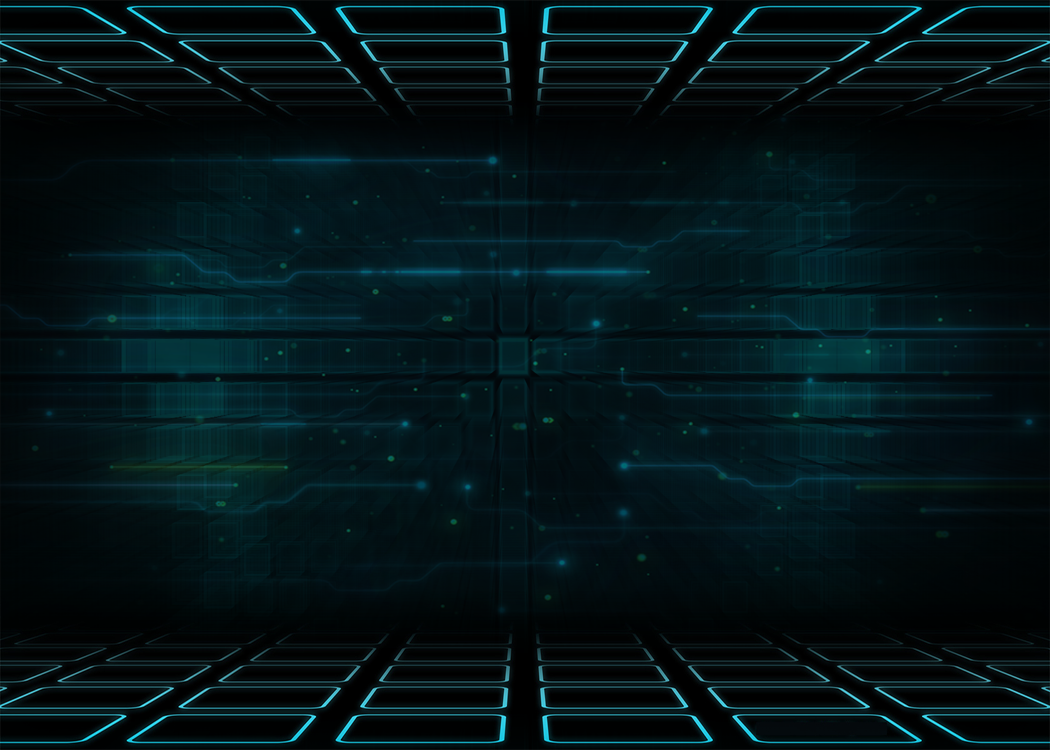
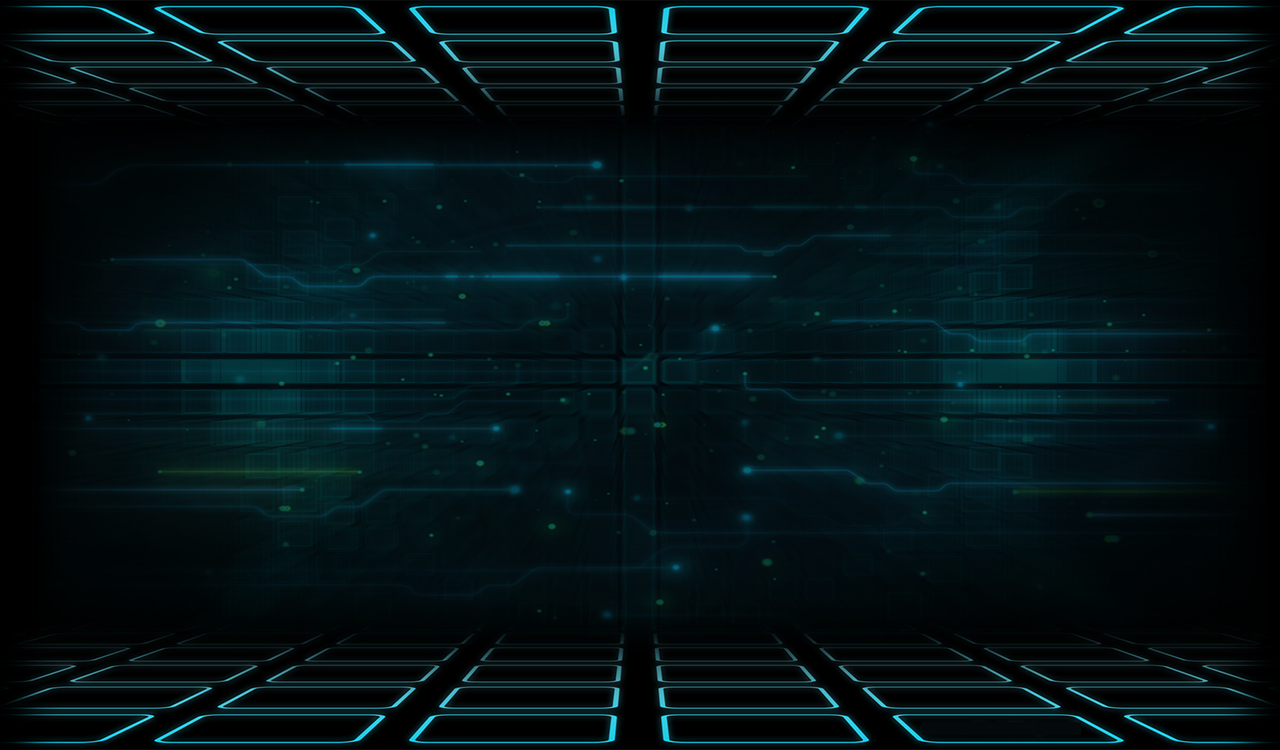
added InformationLayer, changed gameResolution from 1050*750 to 1280*750 to fits the coming up InformationLayer

diff --git a/src/InformationLayer.js b/src/InformationLayer.js
@@ -1,0 +1,49 @@
+var InformationLayer = cc.LayerColor.extend({
+
+    color: new cc.Color4B(0, 0, 0, 255),
+    game: null,
+    _skills: [],
+
+
+
+    init: function(game) {
+        this._super(this.color, 230, this.getStageSize().height);
+        this.game = game;
+        this.createSkillsInformation();
+        //this.createControllerInformation();
+
+        return true;
+    },
+
+    createSkillsInformation: function() {
+        var director = cc.Director.getInstance();
+        var winSize = director.getWinSize();
+
+        for(var i=0 ; i< 2; i++) {
+            this._skills[i] = cc.Sprite.create(s_TWSkills[i]);
+            this._skills[i].setAnchorPoint(0, 0);
+            this._skills[i].setPosition(0,winSize.height-150-(i*100));
+            this.addChild(this._skills[i]);
+        }
+    },
+
+    createControllerInformation: function() {
+        var director = cc.Director.getInstance();
+        var winSize = director.getWinSize();
+
+        var neonDarkColor = cc.c3b(8,103,131);
+        var whiteColor = cc.c3b(255,255,255);
+        var energyLabel = cc.LabelTTF.create("Q \n create low tower", "N-Gage", 20);
+        energyLabel.setHorizontalAlignment(cc.TEXT_ALIGNMENT_CENTER);
+        energyLabel.setColor(whiteColor);
+        energyLabel.setPosition(100, winSize.height-100);
+        
+        energyLabel.enableStroke(neonDarkColor,1);
+        this.addChild(energyLabel);
+    },
+
+    getStageSize: function(){
+        return cc.Director.getInstance().getWinSize();
+    },
+
+});

diff --git a/src/GameLayer.js b/src/GameLayer.js
@@ -1,3 +1,5 @@
+var INFOLAYER_POS = new cc.p(1050,0);
+
 var GameLayer = cc.LayerColor.extend({
 
     color: new cc.Color4B(0, 0, 0, 255),
@@ -26,6 +28,11 @@ var GameLayer = cc.LayerColor.extend({
         this.maze = new MazeNode();
         this.maze.init(this);
         this.addChild( this.maze );
+
+        this.informationLayer = new InformationLayer();
+        this.informationLayer.init(this);
+        this.informationLayer.setPosition(INFOLAYER_POS);
+        this.addChild( this.informationLayer);
 
         this.energyCost = this.maze.energyCost;
 

diff --git a/src/resource.js b/src/resource.js
@@ -32,6 +32,12 @@ var s_Creep = [
     "res/images/creep/jl.png",
 ];
 
+var s_TWSkills = [
+    "res/images/skills/Q.png",
+    "res/images/skills/W.png",
+
+];
+
 var s_Disk = [
     "res/images/tower/disk.plist",
     "res/images/tower/disk.png",
@@ -75,6 +81,10 @@ var g_resources = [
     {src:s_Creep[1]},
     {src:s_Creep[2]},
     {src:s_Creep[3]},
+
+    {src:s_TWSkills[0]},
+    {src:s_TWSkills[1]},
+
 
     {src:s_Disk[0]},
     {src:s_Disk[1]},

diff --git a/src/KeyboardControlLayer.js b/src/KeyboardControlLayer.js
@@ -15,8 +15,8 @@ window.KeyboardControlLayer = cc.Layer.extend({
 		this.map[cc.KEY.right] = "right";
 		this.map[cc.KEY.up] = "up";
 		this.map[cc.KEY.down] = "down";
-		this.map[cc.KEY.c] = "createLow";
-		this.map[cc.KEY.x] = "createHigh";
+		this.map[cc.KEY.q] = "createLow";
+		this.map[cc.KEY.w] = "createHigh";
 		this.map[cc.KEY.d] = "del";
 		this.map[cc.KEY.u] = "upgrade";
 		this.map[cc.KEY.r] = "show_range";

diff --git a/cocos2d.js b/cocos2d.js
@@ -21,7 +21,8 @@
             'src/Selector.js',
             'src/KeyboardControlLayer.js',
             'src/GameOver.js',     
-            'src/menuScene.js',//add your own files in order here
+            'src/menuScene.js',
+            'src/InformationLayer.js',//add your own files in order here
         ]
     };
 

diff --git a/index.html b/index.html
@@ -42,7 +42,7 @@
     </style>
 </head>
 <body style="padding:0; margin: 0; background: #000;">
-<canvas id="gameCanvas" width="1050" height="750"></canvas>
+<canvas id="gameCanvas" width="1280" height="750"></canvas>
 <script src="cocos2d.js"></script>
 </body>
 </html>

diff --git a/main.js b/main.js
@@ -1,4 +1,4 @@
-var screenWidth = 1050;
+var screenWidth = 1280;
 var screenHeight = 750;
 
 var cocos2dApp = cc.Application.extend({
